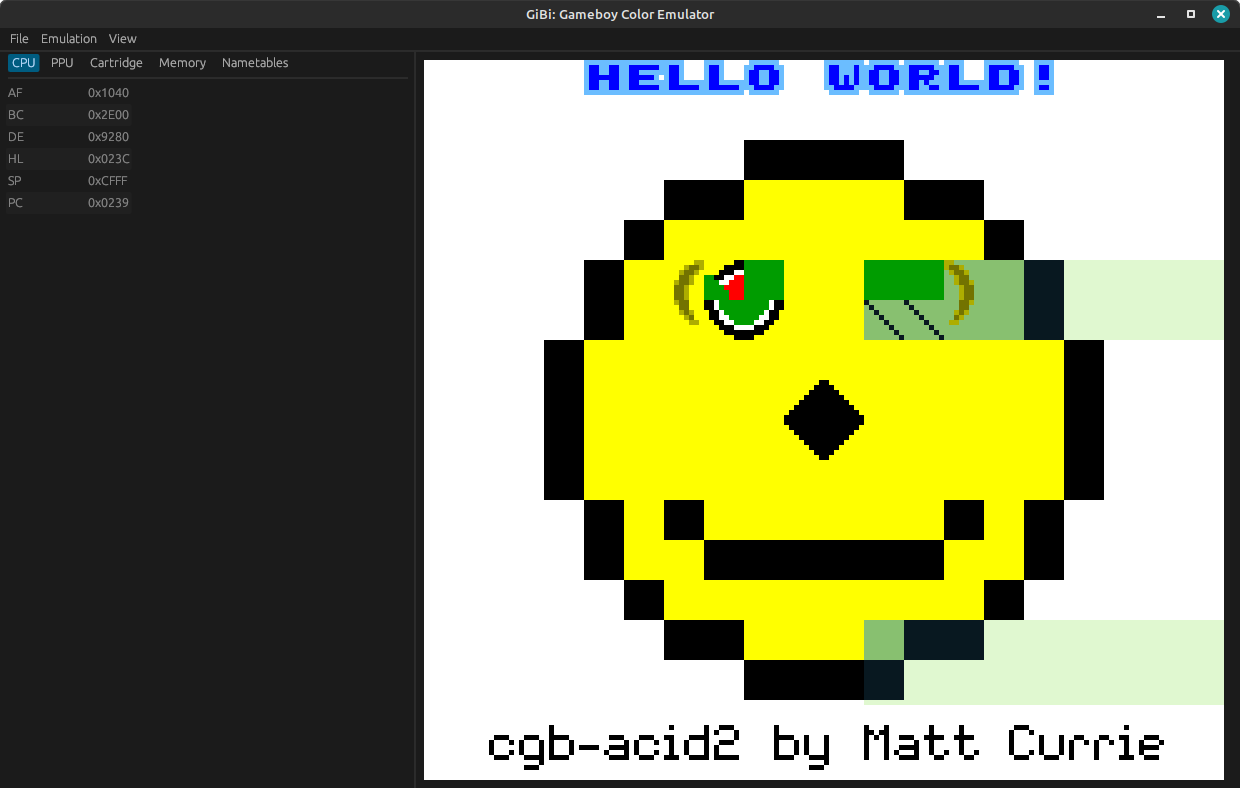
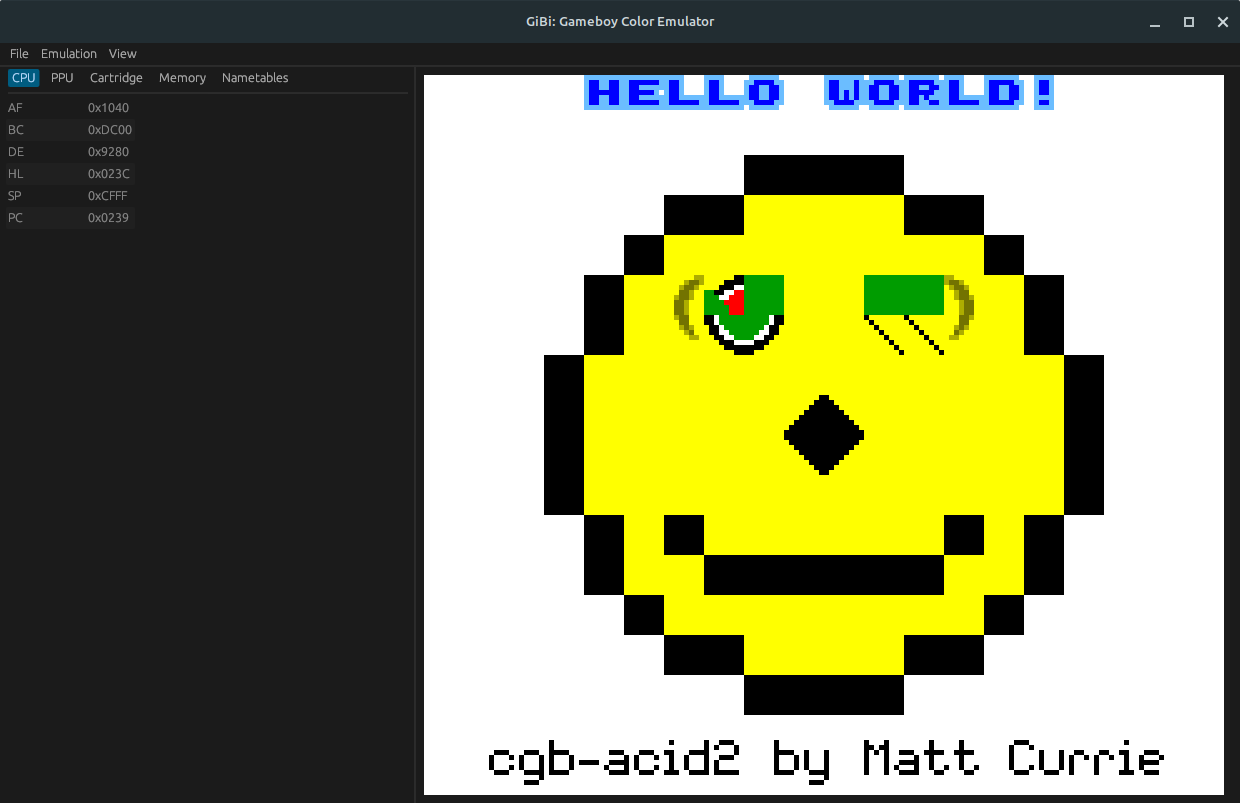
Fix CGB window rendering

diff --git a/src/ppu.rs b/src/ppu.rs
@@ -422,8 +422,6 @@ impl Ppu {
     }
 
     fn render_window_line(&mut self) {
-        let palette = Palette::new_greyscale(self.bgp);
-
         let tileset_address = self.lcdc.bg_and_window_tiledata_area() as usize;
         let tilemap_address = self.lcdc.window_tilemap_area() as usize;
 
@@ -470,6 +468,12 @@ impl Ppu {
             let tile_index = tile_y * TILES_PER_LINE + tile_x;
             let tile_index_address = tilemap_address + tile_index;
             let tile_id = self.vram[vram_index(tile_index_address as u16, 0)];
+            let tile_attr = self.vram[vram_index(tile_index_address as u16, 1)];
+
+            let window_palette_number = tile_attr as usize & 0b111;
+            let palette_spec = &self.color_bg_palettes
+                [(window_palette_number * 8)..((window_palette_number + 1) * 8)];
+            let palette = Palette::new_color(palette_spec);
 
             let tiledata_mem_offset = match self.lcdc.bg_and_window_tiledata_area() {
                 TiledataAddressingMode::Signed => {
